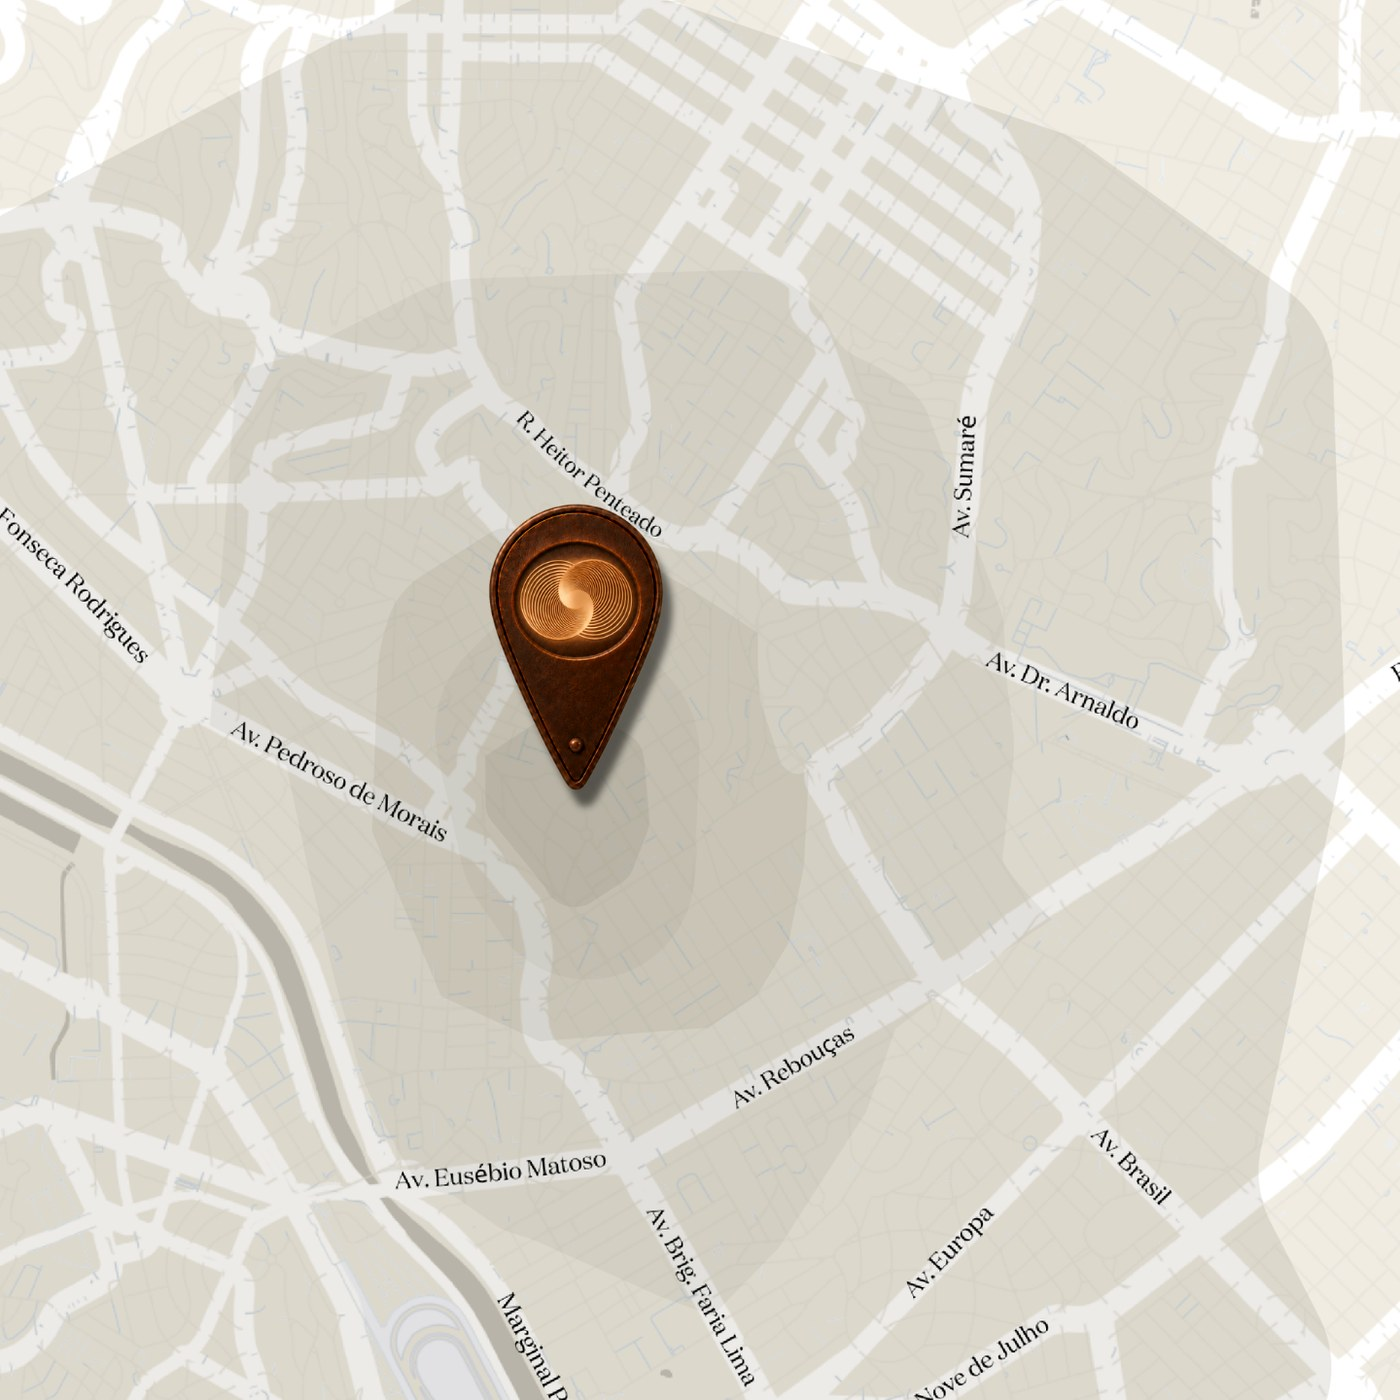
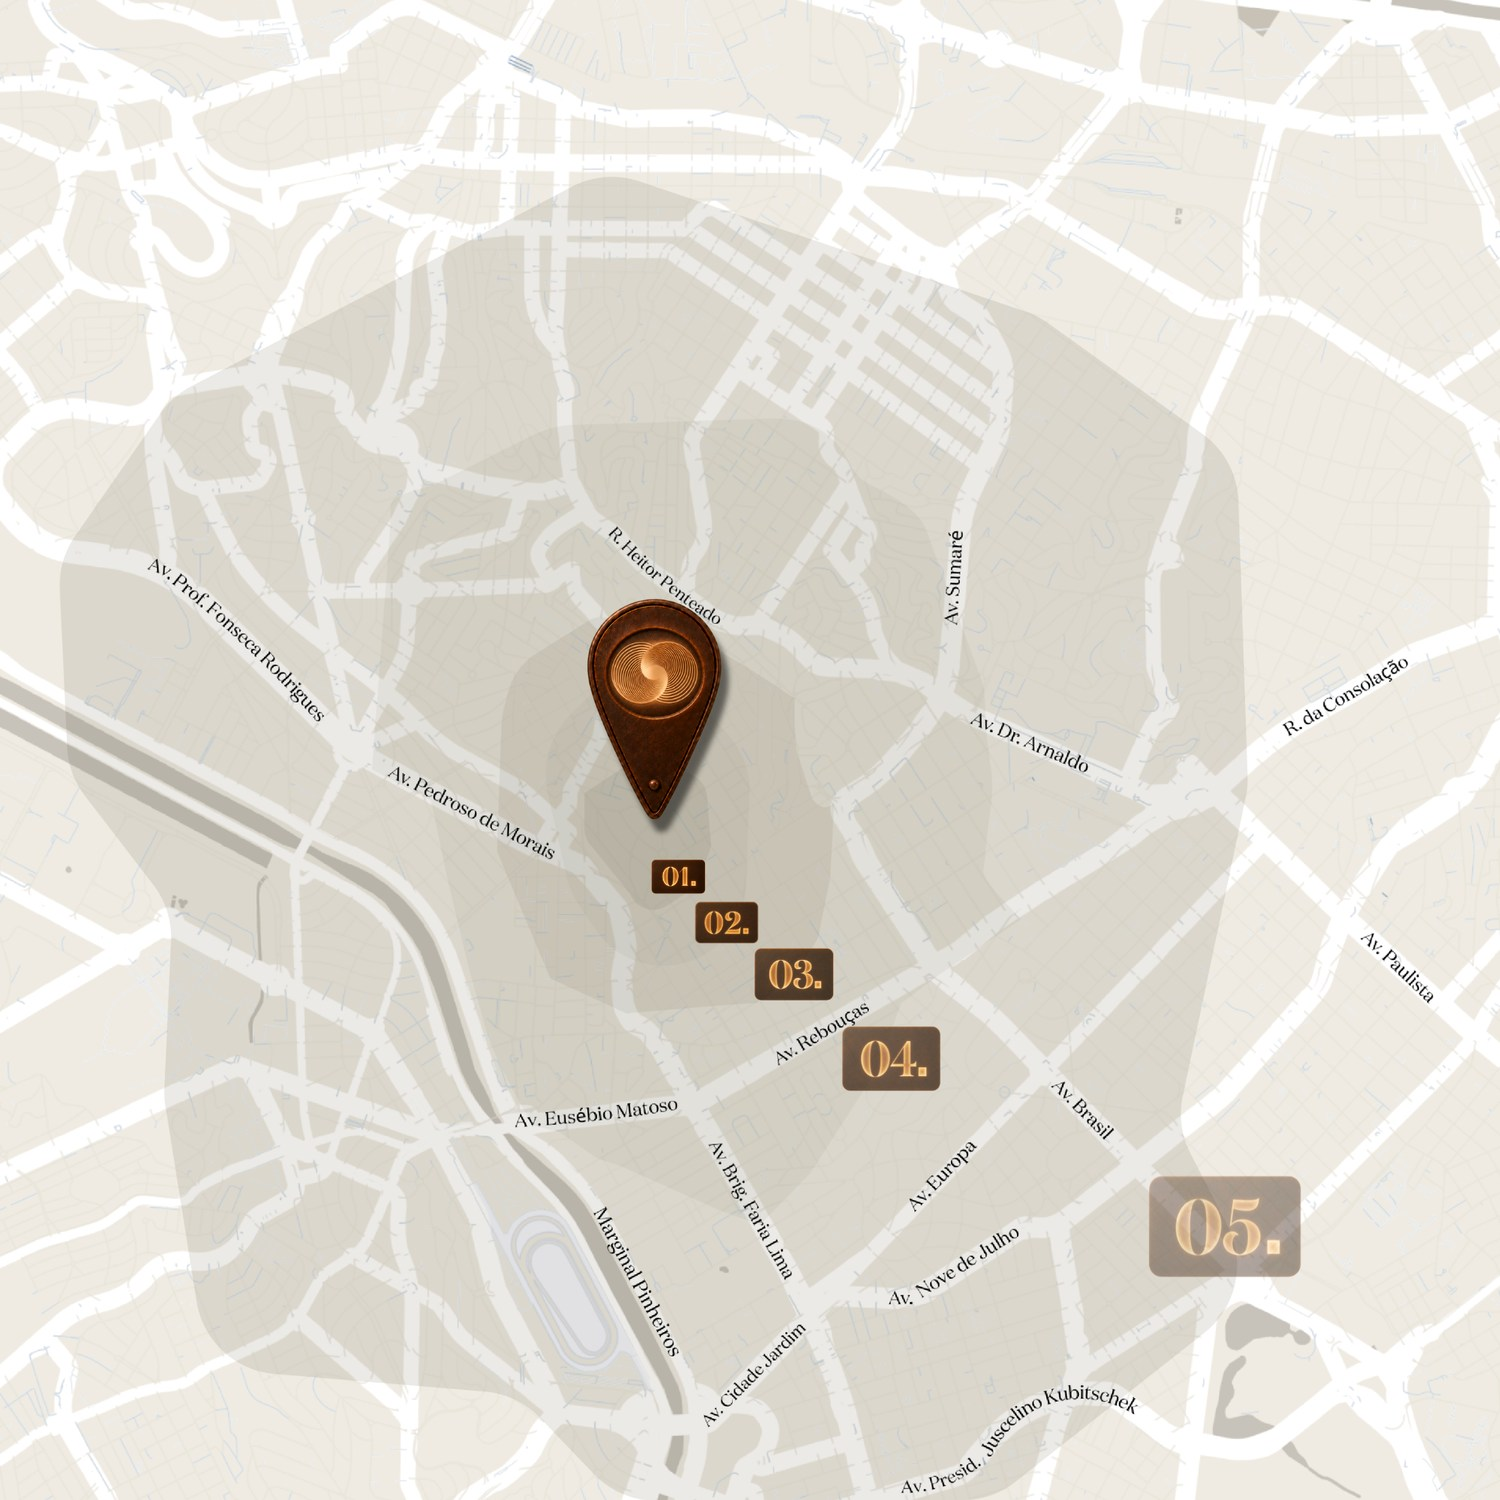
Add files via upload

diff --git a/style.css b/style.css
@@ -1890,3 +1890,55 @@ body.mm-on .mm-links a{opacity:1;translate:0}
   .hm-un{font-size:8.5px}
   .cue,.hero-note{display:none}
 }
+
+/* ═══════════════════════════════════════════════════════════════
+   38. PESO NA METRAGEM, ARRASTE NO CELULAR E ORDEM DO MAPA
+   ═══════════════════════════════════════════════════════════════ */
+
+/* ── METRAGEM · mesma cor e mesmo corpo, só mais peso ────────
+   O número estava fino demais para a cor corten sobre papel.
+   Subo o peso da fonte e tiro a transparência do m².
+   ──────────────────────────────────────────────────────────── */
+.hm-val{font-weight:700;letter-spacing:-.025em}
+.hm-val i{opacity:.45;height:1.5px}
+.hm-un{font-weight:600;opacity:.8}
+.hm-lbl{color:var(--acc);opacity:.62;font-weight:500}
+
+/* ── FACHADA · o arraste volta a funcionar no telefone ───────
+   Sem esta linha o navegador entende o gesto lateral como
+   rolagem e cancela o arraste. 'pan-y' devolve o horizontal
+   para o site e deixa o vertical com o navegador, então rolar
+   a página passando o dedo sobre a imagem continua normal.
+   ──────────────────────────────────────────────────────────── */
+.fach-stage{touch-action:pan-y}
+.fach-rail{touch-action:none}
+/* a barra escura de baixo não pode roubar o gesto da imagem */
+.fach-ctrl{pointer-events:none}
+.fach-btns,.fach-rail,.fach-stop{pointer-events:auto}
+
+/* ── MAPA DE CALOR · no celular o desenho vem primeiro ───────
+   A pessoa precisa ver a coisa antes de mexer nos controles.
+   No computador nada muda: painel à esquerda, gráfico à direita.
+   ──────────────────────────────────────────────────────────── */
+@media(max-width:1059px){
+  .mshell{display:flex;flex-direction:column}
+  .stage{order:1;margin-top:0}
+  .panel{order:2}
+}
+
+/* ── A FAIXA · Z1 é texto, não número, e não deve contar ───── */
+.band b{font-variant-numeric:lining-nums tabular-nums}
+
+/* ── ANÉIS · a lista virou legenda dos selos do mapa ─────────
+   O mapa novo traz os selos 01 a 05. A coluna repete o mesmo
+   número na frente, então o olho liga um ao outro sozinho.
+   ──────────────────────────────────────────────────────────── */
+.anel li{grid-template-columns:auto auto auto 1fr;gap:5px 10px}
+.anel i{font-style:normal;font-family:var(--serif);font-size:11px;
+  letter-spacing:.1em;color:var(--acc);opacity:.55;min-width:20px}
+.anel em{grid-column:4}
+.plot-txt b{font-weight:500;color:var(--acc);font-family:var(--serif)}
+@media(max-width:640px){
+  .anel li{grid-template-columns:auto auto auto 1fr}
+  .anel em{grid-column:1/-1;margin-top:4px}
+}

diff --git a/index.html b/index.html
@@ -194,13 +194,14 @@
     <aside class="plot-side">
       <span class="eyebrow">Como ler o mapa</span>
       <p class="plot-call">Cada mancha é um<br>tempo de caminhada.<br><b>A pé, não de carro.</b></p>
-      <p class="plot-txt">As áreas mais escuras em volta do pino mostram até onde você chega andando, saindo da porta do Morás.</p>
+      <p class="plot-txt">Os selos <b>01</b> a <b>05</b> no mapa marcam até onde você chega andando, saindo da porta do Morás.</p>
+      <!-- os números batem com os selos 01 a 05 marcados no mapa -->
       <ol class="anel">
-        <li><b>05</b><span>min</span><em>A padaria, a academia, o mercado do dia a dia</em></li>
-        <li><b>10</b><span>min</span><em>Restaurantes, cafés e as galerias da Vila</em></li>
-        <li><b>15</b><span>min</span><em>Escolas, clínicas e o Beco do Batman</em></li>
-        <li><b>30</b><span>min</span><em>Parque Villa-Lobos, Faria Lima, metrô</em></li>
-        <li><b>60</b><span>min</span><em>Paulista, Ibirapuera e o centro velho</em></li>
+        <li><i>01</i><b>05</b><span>min</span><em>A padaria, a academia, o mercado do dia a dia</em></li>
+        <li><i>02</i><b>10</b><span>min</span><em>Restaurantes, cafés e as galerias da Vila</em></li>
+        <li><i>03</i><b>15</b><span>min</span><em>Escolas, clínicas e o Beco do Batman</em></li>
+        <li><i>04</i><b>30</b><span>min</span><em>Parque Villa-Lobos, Faria Lima, metrô</em></li>
+        <li><i>05</i><b>60</b><span>min</span><em>Paulista, Ibirapuera e o centro velho</em></li>
       </ol>
       <p class="plot-nota">Mapa esquemático, sem escala.<br>Tempos aproximados, a pé.</p>
     </aside>
@@ -282,8 +283,8 @@
   <div class="band reveal">
     <div><b>1.685</b><span>m² de terreno</span></div>
     <div><b>09</b><span>Pavimentos, torre única</span></div>
-    <div><b>2,95</b><span>Aproveitamento privativo sobre a área do terreno</span></div>
     <div><b>18</b><span>Unidades no total</span></div>
+    <div><b>Z1</b><span>Zona estritamente residencial</span></div>
   </div>
 
   <div class="typo-wrap">
